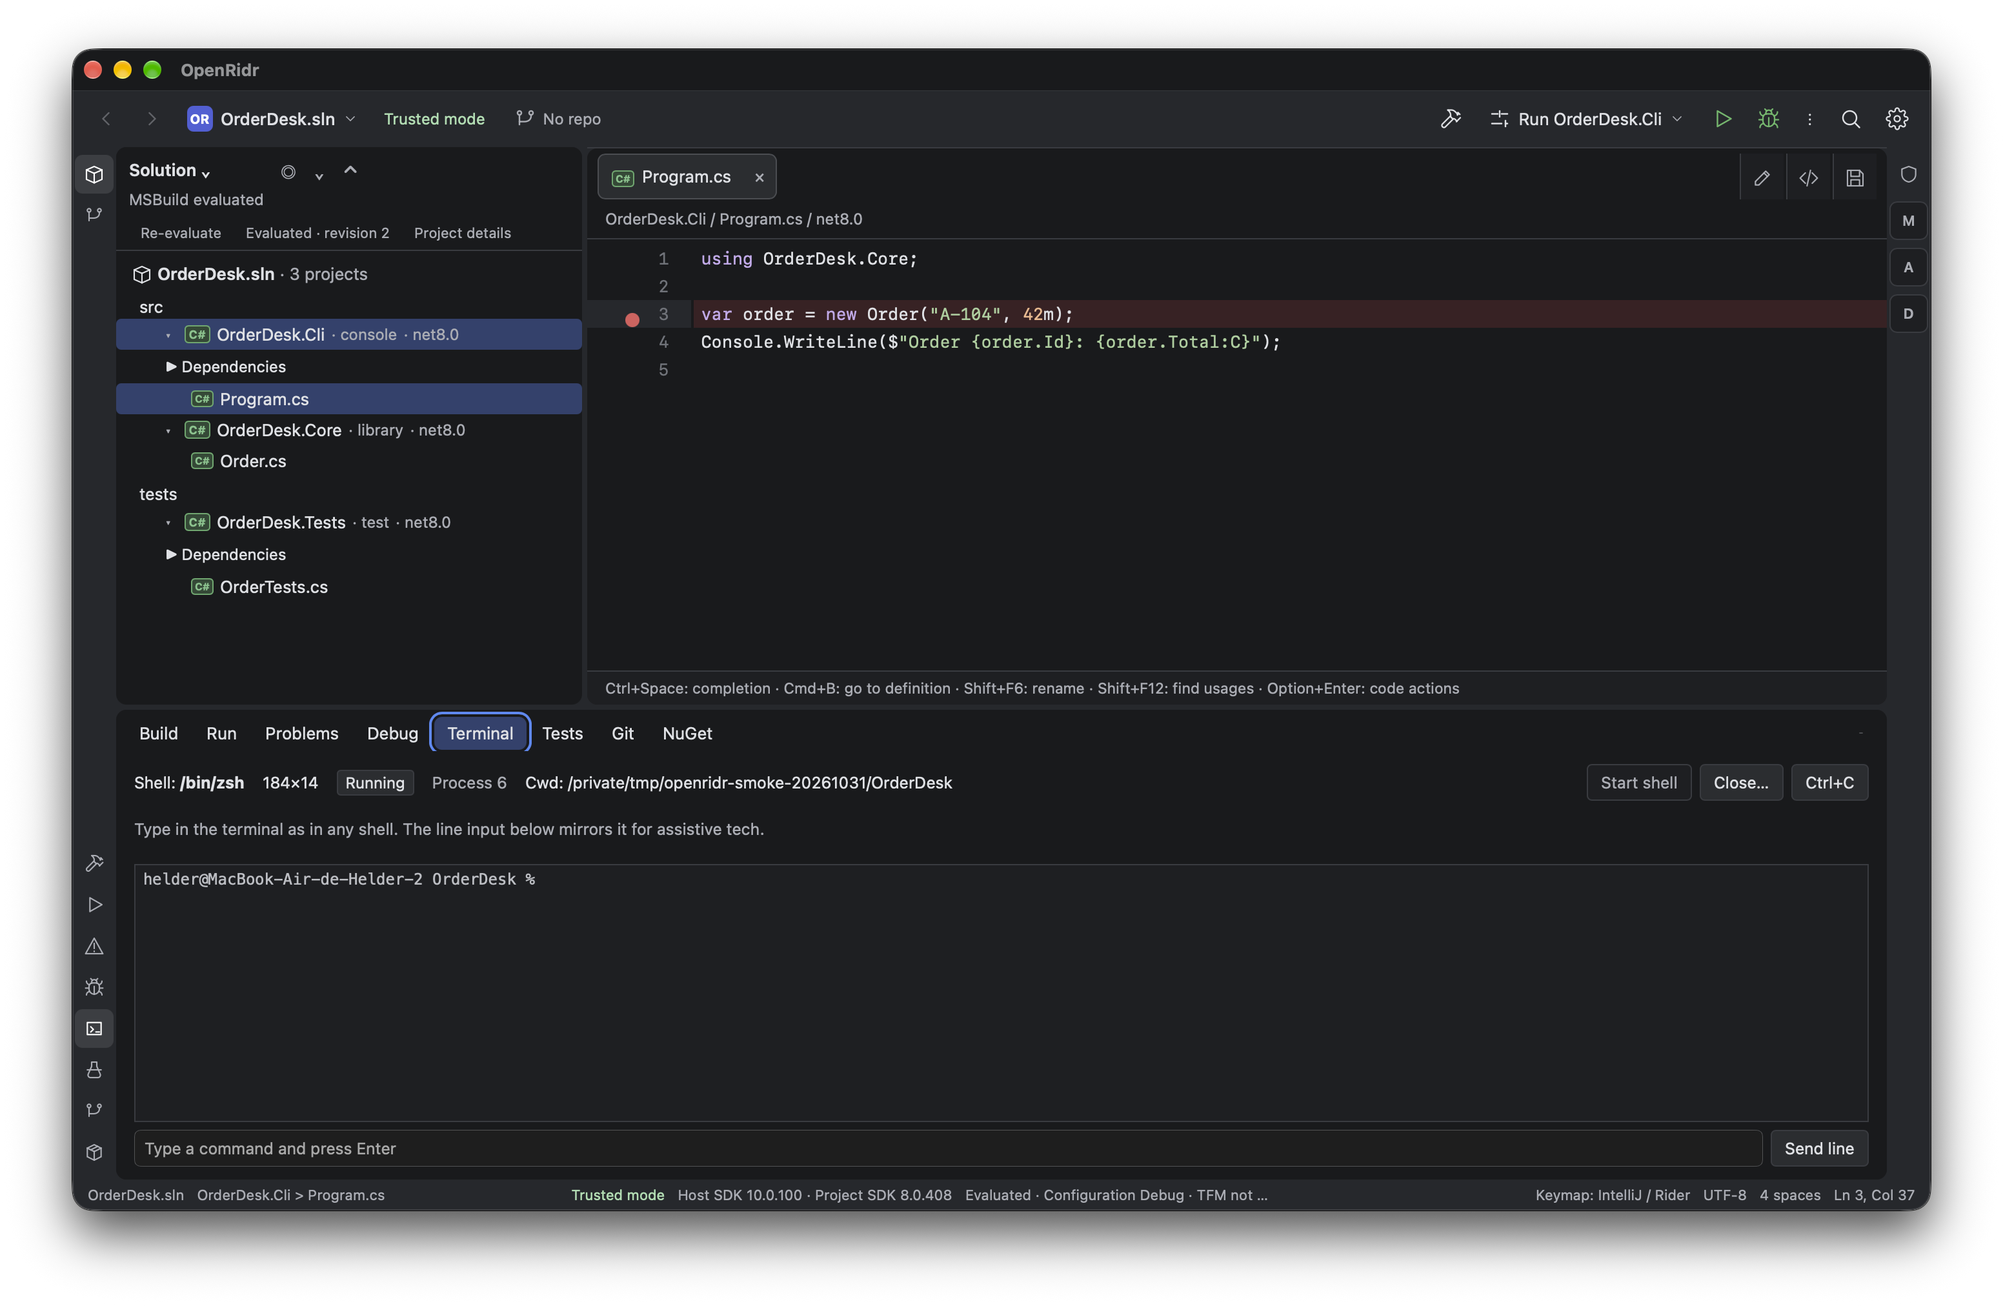
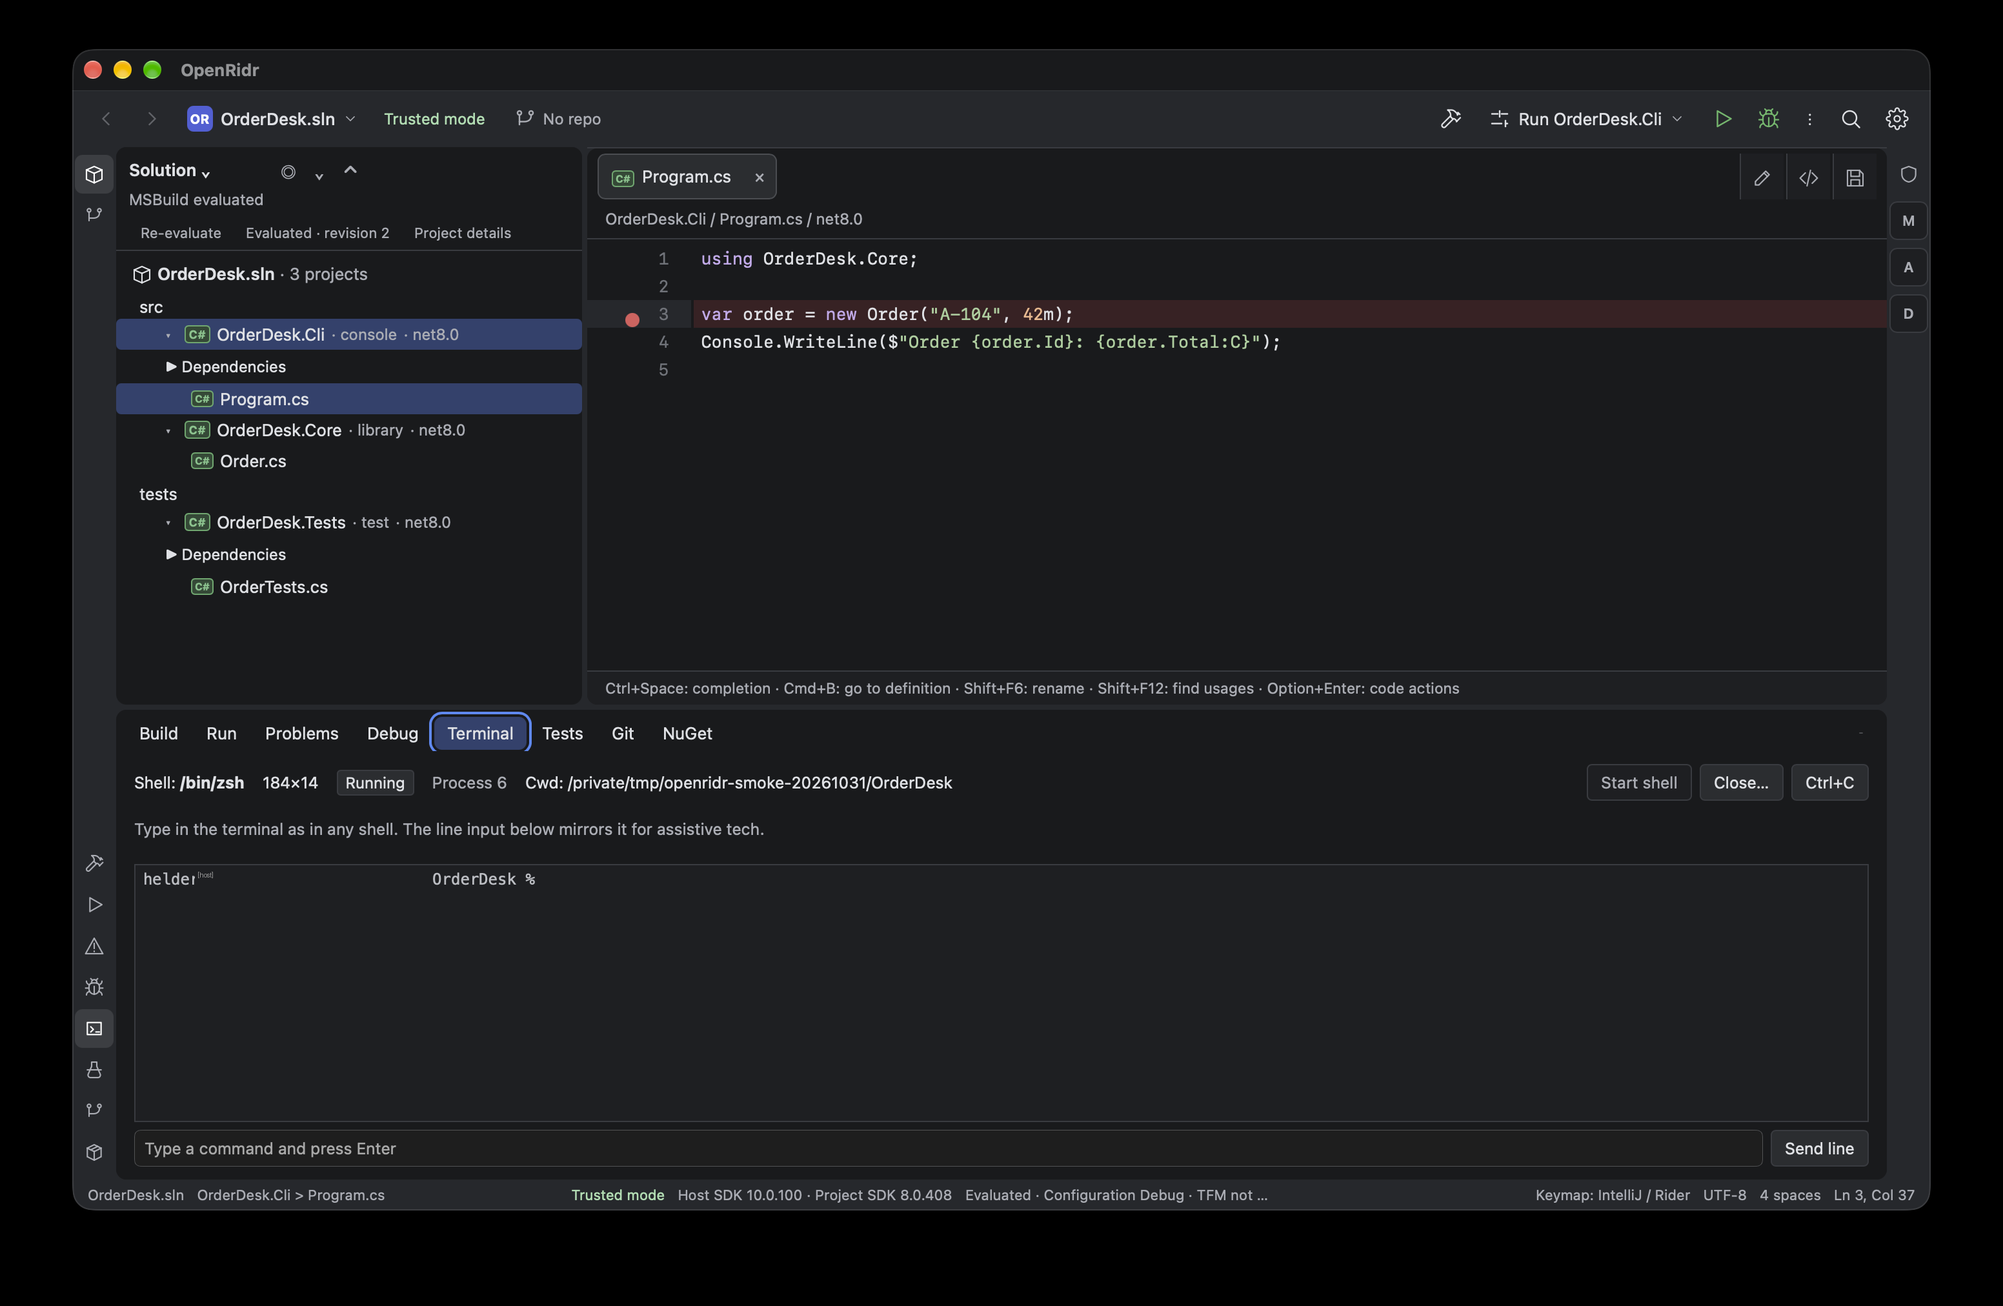
docs(acceptance/app): remove personal data from native smoke captures, state the install criterion honestly, add D-13

Changed region(s): [[0.0, 0.0, 1.0, 1.0], [0.0938, 0.6537, 0.1875, 0.6848]]

diff --git a/docs/acceptance-matrix.md b/docs/acceptance-matrix.md
@@ -87,7 +87,7 @@ Legenda de tickets: `F1…F9` = `docs/tickets-mvp/`; `Fase1 NN` = `.scratch/fase
 | 24c | Debug de teste (Debug selected) desabilitado por decisão | `docs/decisions.md` (2026-10-28: debug de teste é P1; `debug.start` lança o assembly, não um teste) | `testsuite.spec.ts:188` the quick list dims unavailable actions with their reason | Limite de produto, não defeito | — | verificado |
 | 24d | Terminal automático com prompt (decisão xterm.js; Fase1 07 separado do 06) | `docs/decisions.md` 2026-10-30 (xterm.js aprovado); Fase1 06 = host em bytes, Fase1 07 = terminal interativo | `terminal.spec.ts:74`, `:223`, `:245` (prompt sem Start, teclas, histórico, cores, tela cheia); host: testes Rust do `terminal.rs` (lib 173 passed) | Dependência `@xterm/xterm` + `@xterm/addon-fit` aprovada e registrada. `TERM`: ver D-02 (corrigido) | — | verificado* |
 | 24e | Project details e Trust→SDK no drawer de tools | AC-02, AC-08; Fase1 10 | `ui-layout.spec.ts:110` evaluated project details keep paths intact and Close with the heading; `trust-sdk.spec.ts:71` trust resolves the project SDK…; `:175` missing project SDK is distinct… | M10 coberto pelo spec de layout; M1 (drawer mistura restore, debug adapter, installer e LSP) não reauditado | M1 sem dono | verificado* |
-| 25 | App local `.app` (gerar, instalar, atualizar) | Fase1 14; `docs/install-app.md` | Build do bundle: `bun run tauri build --bundles app` exit 0 (2026-10-30, 15 MiB, ad-hoc). Abriu como processo próprio; **smoke nativo 2026-10-31** (seção 3b): abrir → Trust → restore/avaliação automáticos → Run exit 0 → Debug até o breakpoint → terminal `echo ok` | Prova nativa em `docs/evidence/logs/native-smoke-2026-10-31.md` e `native-*.png`; instalação em `/Applications` verificada na rodada anterior, não repetida; o smoke rodou no bundle de `src-tauri/target`. Sem assinatura/notarização por desenho. `app:install` não foi rodado nesta rodada | Fase1 14; Mapa 13 | verificado* |
+| 25 | App local `.app` (gerar, instalar, atualizar) | Fase1 14; `docs/install-app.md` | Build do bundle: `bun run tauri build --bundles app` exit 0 (2026-10-30, 15 MiB, ad-hoc). Abriu como processo próprio; **smoke nativo 2026-10-31** (seção 3b): abrir → Trust → restore/avaliação automáticos → Run exit 0 → Debug até o breakpoint → terminal `echo ok` | Bundle gerado com `bun run tauri build --bundles app` e validado no target (abrir→Trust→restore→Run→Debug→terminal; `docs/evidence/logs/native-smoke-2026-10-31.md`, `native-*.png`). Instalação em `/Applications` via `bun run app:install` verificada em 2026-10-30 (mtime 16:52) e **não repetida** nesta rodada por restrição; a cópia instalada **não foi exercitada com o HEAD atual**. O smoke usou **cópia da fixture**, não o projeto real de aceite (decisão do Helder em aberto) Sem assinatura/notarização por desenho. `app:install` não foi rodado nesta rodada | Fase1 14; Mapa 13 | verificado* |
 | 26 | Jornada P0 de aceitação (restricted→trust→SDKs→restore→LSP→build→run→testes→PTY→DAP) | Apêndice A, AC-01…AC-34 | `zz-acceptance.spec.ts` UI audit passed; jornada P0 passou após `702761b` (2/2, 2026-10-30, `TERM=xterm-256color`): restricted→trust→SDKs→restore→LSP→build→run→testes→PTY→DAP real. A jornada precisou de 3 ajustes ao layout da Fase 1 (drawer de tools fechado, terminal abre sozinho, popover de Trust cobre a aba após Revoke) | D-10 corrigido em `3bbc30e` (workaround removido; jornada 2/2). `dotnet --version` no terminal só prova que o pin 8.0.408 é satisfeito por alguma raiz detectada, não que o host usou o SDK resolvido | — | verificado* |
 | 27 | Fronteiras do host (Rust) | decisions.md; testes de fronteira | `cargo test --workspace --no-fail-fast` (28/10→30/10): lib 173 (+1 do D-02), debugger 9, test_discovery 9, test_run 5 passed; `host.rs` 60 passed / 0 failed após `e9d3804` | — | — | verificado |
 | 28 | Gates de release (G-LEGAL, G-PKG, G-NATIVE) | `docs/release-decision.md` | Nenhuma prova possível por spec | Sem ticket de código; decisão do Helder (Mapa 10) | Mapa 10 | bloqueado |
@@ -100,7 +100,7 @@ Bundle `src-tauri/target/release/bundle/macos/OpenRidr.app` do HEAD `c7439ad` (S
 
 | Linha | Observado na janela nativa | Capturas |
 |---|---|---|
-| 1 Welcome/abrir | Welcome com recentes e Toolchain; botão Open → NSOpenPanel nativo → pasta da cópia → workspace aberto em Restricted | native-00, 01, 02, 03, 04 |
+| 1 Welcome/abrir | Welcome com recentes e Toolchain; botão Open → NSOpenPanel nativo → pasta da cópia → workspace aberto em Restricted | native-00, 02, 03, 04 |
 | 2 Trust | Banner Restricted → popover → checkbox → "Trust and inspect project" → `Trusted mode` (só da cópia). **Revoke não exercido** | native-05, 06, 07 |
 | 3 / 24e SDK | Barra de status `Host SDK 10.0.100 · Project SDK 8.0.408`; aba NuGet `Project SDK 8.0.408 · /Users/helder/.dotnet` | native-07 |
 | 4 Solution Explorer | Árvore avaliada (`src/`, `tests/`, projetos console/library/test net8.0, Dependencies), `Evaluated · revision 2` | native-07 |
@@ -113,9 +113,9 @@ Bundle `src-tauri/target/release/bundle/macos/OpenRidr.app` do HEAD `c7439ad` (S
 | 18 NuGet (parcial) | Aba NuGet: "No packages are referenced by this project.", fonte nuget.org | native-07 |
 | 25 App local | Todos os fluxos acima rodaram no `.app` gerado, como processo próprio | todas |
 
-Não verificado nativamente: Git, Settings/Keymap, Search Everywhere, Run configurations (diálogo), Problems, rename/code actions/find usages, testes, layout em 1100×700, fechamento com buffers sujos, Revoke de Trust. **O1 (baixa):** o popover de Trust permanece aberto após **conceder** Trust e cobre parte da árvore/abas até um clique fora (mesma família do D-10, que só tratou o Revoke).
+Não verificado nativamente: Git, Settings/Keymap, Search Everywhere, Run configurations (diálogo), Problems, rename/code actions/find usages, testes, layout em 1100×700, fechamento com buffers sujos, Revoke de Trust. **D-13 (B/M, aberto):** o popover de Trust permanece aberto após **conceder** Trust e cobre parte da árvore/abas até um clique fora (mesma família do D-10, que só tratou o Revoke).
 
-## 4. Defeitos e limites novos desta rodada (D-01, D-02, D-03, D-04, D-05, D-09, D-10 e D-11 corrigidos depois; D-06, D-07, D-08 e D-12 seguem abertos)
+## 4. Defeitos e limites novos desta rodada (D-01, D-02, D-03, D-04, D-05, D-09, D-10 e D-11 corrigidos depois; D-07, D-08, D-12 e D-13 seguem abertos)
 
 | ID | Sev. | Achado | Evidência | Ticket proposto |
 |---|---|---|---|---|
@@ -130,6 +130,7 @@ Não verificado nativamente: Git, Settings/Keymap, Search Everywhere, Run config
 | D-09 | M | **Fechado** em `0f00ae7`: `zy-gutter.spec.ts` prova o gutter de teste; gutter Run segue não verificado (fixture sem `Main`). | `zy-gutter.spec.ts:16` | — |
 | D-11 | M | **Corrigido** em `0f00ae7` (`codeNavigation.ts`: nome sem a lista de parâmetros e, sem `containerName`, a classe é achada pela faixa de linhas). Host, gates, Trust e testids intocados. | `zy-gutter.spec.ts`, `code.spec.ts` 3/3, `csharp-ls.spec.ts` 10/10 | — |
 | D-10 | M | **Corrigido** em `3bbc30e`: Revoke fecha o popover de Trust (`WorkspaceView.tsx`; gate de Trust intocado). Spec de geometria `gates.spec.ts:68` Revoke closes the Trust popover and leaves the tabs clickable (red→green); workaround removido da jornada. Asserts `mode-restricted` pós-Revoke passaram a `mode-badge`. | `zz-acceptance` 2/2, csharp-ls 10/10, tests 6/6, terminal 4/4, debugger 12/12, gates/workspace/trust-sdk/shell 25/25 | — |
+| D-13 | B/M | **Aberto (UX), novo do smoke nativo:** depois de **conceder** Trust o popover de Trust fica aberto e cobre a árvore/abas até um clique fora (família do D-10, que tratou só o Revoke). Não corrigido. | `native-07-trusted.png`, `native-12-program-open.png`; log do smoke (O1) | Ticket proposto: fechar o popover ao concluir o grant, com spec de geometria red→green como o do D-10 |
 | D-08 | B | Mensagem "The saved build is stale: …evaluation.." termina com ponto duplo (texto vem do host + ponto do gate). | Visto numa sonda temporária no `gates.spec.ts`; o spec final **não** afirma o ponto duplo — sem asserção | Corrigir pontuação |
 
 ## 5. Defeitos e limites já conhecidos (herdados)

diff --git a/docs/evidence/logs/native-smoke-2026-10-31.md b/docs/evidence/logs/native-smoke-2026-10-31.md
@@ -10,10 +10,10 @@
 ## Passos
 - 05:56:36 **00 Welcome.** AX: `group Welcome`, `UI element Projects`, `UI element Toolchain`, `text field Search projects`, `button Open`, `button MissingSdk …/MissingSdk.csproj`, `button OrderDesk …/fixtures/OrderDesk/OrderDesk.sln`. Captura: native-00-welcome.png.
 - 06:00 **Incidente (meu erro, registrado):** ao medir a resolução da tela rodei por engano um `osascript` com `tell application "Finder"`. O macOS abriu o diálogo de TCC "Cindy.app quer controlar Finder.app". O processo `osascript` foi encerrado por mim; **não concedi nem neguei a permissão** (não cliquei no diálogo; decisão do Helder). Nenhuma outra chamada a apps fora do System Events (processo 55568) foi feita. Regra daqui em diante: só `System Events` com `unix id is 55568`, `screencapture -l` e `CGWindowListCopyWindowInfo`.
-- 06:00 **Passo 01 (parcial):** o botão `button Open` (AXPress via `click`) abriu um NSOpenPanel nativo "Open solution or project" (captura de tela cheia: `native-01-open-dialog.png`; a captura por janela não inclui o painel). O painel não aparece em `windows` do AX (`count of windows` = 0 enquanto aberto). As primeiras teclas (Cmd+Shift+G, Esc) não mostraram efeito imediato; o painel acabou fechado — a entrega de teclas pode ter atraso, a reconfirmar.
+- 06:00 **Passo 01 (parcial):** o botão `button Open` (AXPress via `click`) abriu um NSOpenPanel nativo "Open solution or project" (a captura por janela não inclui o painel; a captura de tela cheia mostrava a listagem da home do usuário e **foi removida do repositório por privacidade** — este passo fica descrito só pelo log/AX). O painel não aparece em `windows` do AX (`count of windows` = 0 enquanto aberto). As primeiras teclas (Cmd+Shift+G, Esc) não mostraram efeito imediato; o painel acabou fechado — a entrega de teclas pode ter atraso, a reconfirmar.
 - 06:13 **Retomada** (Acessibilidade ativada pelo Helder; diálogo do Finder resolvido por ele — reconfirmado: `System Events` lê `{unix id, name of every window}` do 55568; captura por `screencapture -l 47591`). `set frontmost` só do PID 55568; antes de **cada** tecla/clique conferi `frontmost == 55568` (`tell application "System Events" to get unix id of (first application process whose frontmost is true)` → `55568`).
-- 06:14 **Limite do AX/entrega de eventos (diagnóstico):** `keystroke`/`key code`/`click at` do System Events **não chegaram** ao NSOpenPanel (o painel roda no `com.apple.appkit.xpc.openAndSavePanelService` e não é listado em `windows` do 55568). Não era falta de permissão (o AX do WKWebView lia e o `click` por AXPress no botão Open funcionou) nem foco incorreto (frontmost = 55568). Alternativa nativa que funcionou: eventos HID sintéticos via `CGEventPost` (Swift: `click.swift x y`, `key.swift <keycode>|text`) — clique no painel (sidebar "Downloads") e depois Cmd+Shift+G. Efeito colateral inevitável: a captura de tela cheia do painel mostrou, por instantes, nomes de arquivos de Downloads do usuário; as capturas versionadas do diálogo (`native-01/02/03`) foram **recortadas só para o painel**.
-- 06:15 **Passo 01–03 Abrir (NSOpenPanel):** `button Open` → painel "Open solution or project"; Cmd+Shift+G (CGEvent) abriu o "Go to"; digitei `/tmp/openridr-smoke-20261031/OrderDesk/OrderDesk.sln`, Return (navega para a pasta: `src`, `tests`, `global.json`, `OrderDesk.sln`), Return (Escolher). Capturas: `native-01-open-dialog.png`, `native-02-goto-path.png`, `native-03-dialog-copy-selected.png`.
+- 06:14 **Limite do AX/entrega de eventos (diagnóstico):** `keystroke`/`key code`/`click at` do System Events **não chegaram** ao NSOpenPanel (o painel roda no `com.apple.appkit.xpc.openAndSavePanelService` e não é listado em `windows` do 55568). Não era falta de permissão (o AX do WKWebView lia e o `click` por AXPress no botão Open funcionou) nem foco incorreto (frontmost = 55568). Alternativa nativa que funcionou: eventos HID sintéticos via `CGEventPost` (Swift: `click.swift x y`, `key.swift <keycode>|text`) — clique no painel (sidebar "Downloads") e depois Cmd+Shift+G. Efeito colateral inevitável: a captura de tela cheia do painel mostrou, por instantes, nomes de arquivos de Downloads do usuário; as capturas versionadas do diálogo foram **recortadas**: `native-02` mostra só a folha "Go to" com o path da cópia em /tmp e `native-03` só o painel já dentro da cópia (a captura do primeiro painel, que mostrava a listagem da home, foi removida). No terminal, o hostname do prompt foi coberto por tarja (`[host]`) em `native-17`/`native-18`.
+- 06:15 **Passo 01–03 Abrir (NSOpenPanel):** `button Open` → painel "Open solution or project"; Cmd+Shift+G (CGEvent) abriu o "Go to"; digitei `/tmp/openridr-smoke-20261031/OrderDesk/OrderDesk.sln`, Return (navega para a pasta: `src`, `tests`, `global.json`, `OrderDesk.sln`), Return (Escolher). Capturas: `native-02-goto-path.png`, `native-03-dialog-copy-selected.png` (a captura do primeiro painel foi removida).
 - 06:16 **Passo 04 Workspace aberto em Restricted.** AX: `UI element Project: OrderDesk.sln. Open recent solutions.`, `UI element Restricted mode`, `static text Restricted mode. Build, Run, Debug and analysis are off until you trust this workspace.`, `button Trust workspace…`, `button Trust the workspace to use Git`. Captura: `native-04-after-open.png` (árvore só de texto, "MSBuild has not run and nothing is evaluated").
 - 06:17 **Passo 05–07 Trust (só da cópia):** `click button "Trust workspace…"` (AXPress) → popover; AX: `checkbox I trust this repository to execute code`, `button Trust and inspect project`. `click checkbox` (valor 1), `click button "Trust and inspect project"`. AX depois: `UI element Trusted mode`, `static text MSBuild evaluated`, `static text Evaluated · revision 2`. Capturas: `native-05-trust-popover.png`, `native-06-trust-checked.png`, `native-07-trusted.png` (árvore agrupada `src/`, `tests/`, `OrderDesk.Cli · console · net8.0`; barra de status `Host SDK 10.0.100 · Project SDK 8.0.408`).
 - 06:17 **Passo 08 Restore automático (bônus):** abrindo "Workspace tools" (`checkbox Workspace tools`), AX: `static text Restore succeeded · exit 0`, `static text Scope: Solution · OrderDesk.sln`, `button Restore again`. **Nunca cliquei em restore**: ele rodou sozinho após o Trust, e a avaliação reflete revisão 2. Captura: `native-08-workspace-tools.png`.
@@ -27,7 +27,7 @@
 
 ## Observações/limites registrados
 
-- **O1 (UX, baixa):** após **conceder** Trust o popover de Trust permanece aberto e cobre parte da árvore/abas até um clique fora (mesma família do D-10, que tratou só o Revoke). Visto em `native-07-trusted.png`/`native-12-program-open.png`.
+- **O1 → D-13 (UX, B/M, aberto na matriz):** após **conceder** Trust o popover de Trust permanece aberto e cobre parte da árvore/abas até um clique fora (mesma família do D-10, que tratou só o Revoke). Visto em `native-07-trusted.png`/`native-12-program-open.png`.
 - **O2 (limite de automação):** NSOpenPanel fora do AX e sem entrega de `keystroke` do System Events; usado CGEvent (HID). Canvas do xterm fora do AX.
 - **O3 (escopo):** o smoke rodou no bundle gerado em `src-tauri/target/…` (não na cópia instalada em `/Applications`); build e instalação foram verificados antes (notas do ticket 14). Windows/Intel não verificados.
 - NuGet (bônus): a aba mostrou "Project SDK 8.0.408 · /Users/helder/.dotnet", "No packages are referenced by this project." e fontes configuradas (`native-07-trusted.png`).

diff --git a/docs/implementation-notes.md b/docs/implementation-notes.md
@@ -477,5 +477,7 @@ Welcome — recentes verificados (2026-10-29): spec `welcome lists recent soluti
 
[1 lines of base64/hex data omitted]
 - **Método e limites:** AX (System Events) lê o WKWebView e aciona botões; o NSOpenPanel roda no `openAndSavePanelService`, fora do AX, e só respondeu a eventos HID (`CGEventPost`); o canvas do xterm não é exposto ao AX (prova por captura de janela). O adaptador netcoredbg existente foi reaproveitado; nada foi instalado; SDK/`global.json` intactos; a fixture do repositório e os processos do usuário (32349, 32444) não foram tocados.
-- **Não verificado:** instalação em `/Applications` re-executada (verificada na rodada anterior; o smoke rodou no bundle de `src-tauri/target`); Revoke de Trust, Git, Settings, Search, testes, rename/code actions e layout 1100×700 na janela nativa; Windows e macOS Intel.
-- **Observação O1 (baixa):** o popover de Trust fica aberto após conceder Trust (como o D-10 após Revoke) até um clique fora.
+- **Critério de instalação (honesto):** bundle gerado com `bun run tauri build --bundles app` e validado no target (abrir→Trust→restore→Run→Debug→terminal); instalação em `/Applications` via `bun run app:install` verificada em 2026-10-30 (mtime 16:52) e **não repetida** nesta rodada por restrição; a cópia instalada **não foi exercitada com o HEAD atual**. O smoke usou cópia da fixture, não o projeto real de aceite (decisão do Helder em aberto).
+- **Não verificado:** Revoke de Trust, Git, Settings, Search, testes, rename/code actions e layout 1100×700 na janela nativa; Windows e macOS Intel.
+- **D-13 (B/M, aberto):** o popover de Trust fica aberto após conceder Trust (como o D-10 após Revoke) até um clique fora; ticket proposto: fechar ao concluir o grant, com spec de geometria.
+- **Privacidade:** a captura do primeiro painel (listagem da home) foi removida e a da folha "Go to" recortada; o hostname do prompt do terminal foi coberto por tarja nas capturas 17 e 18.
